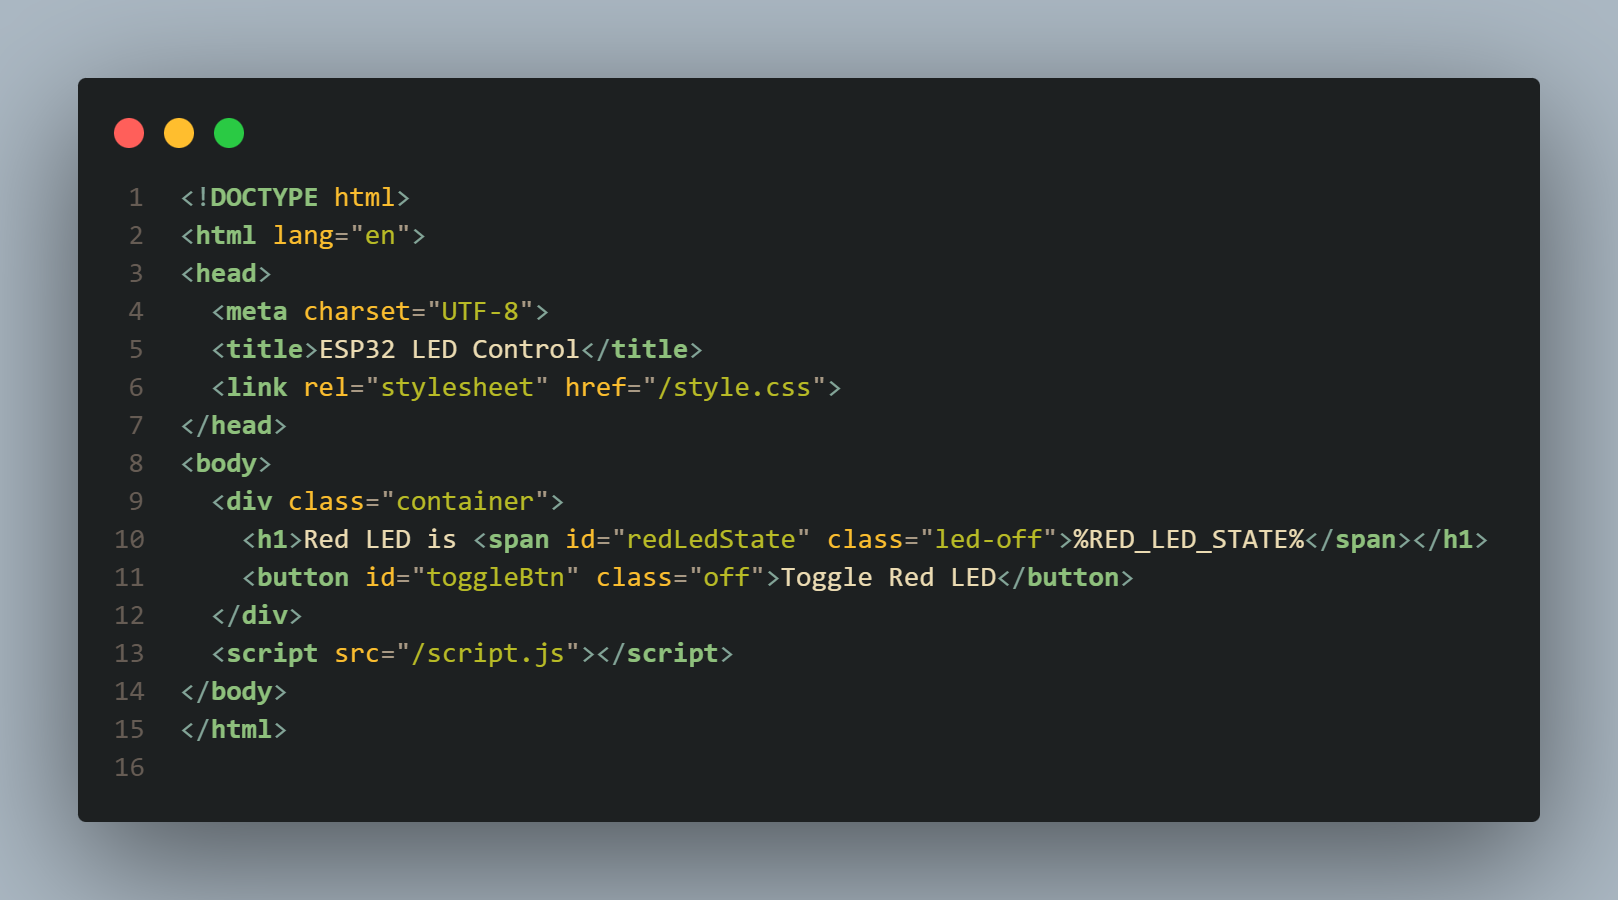
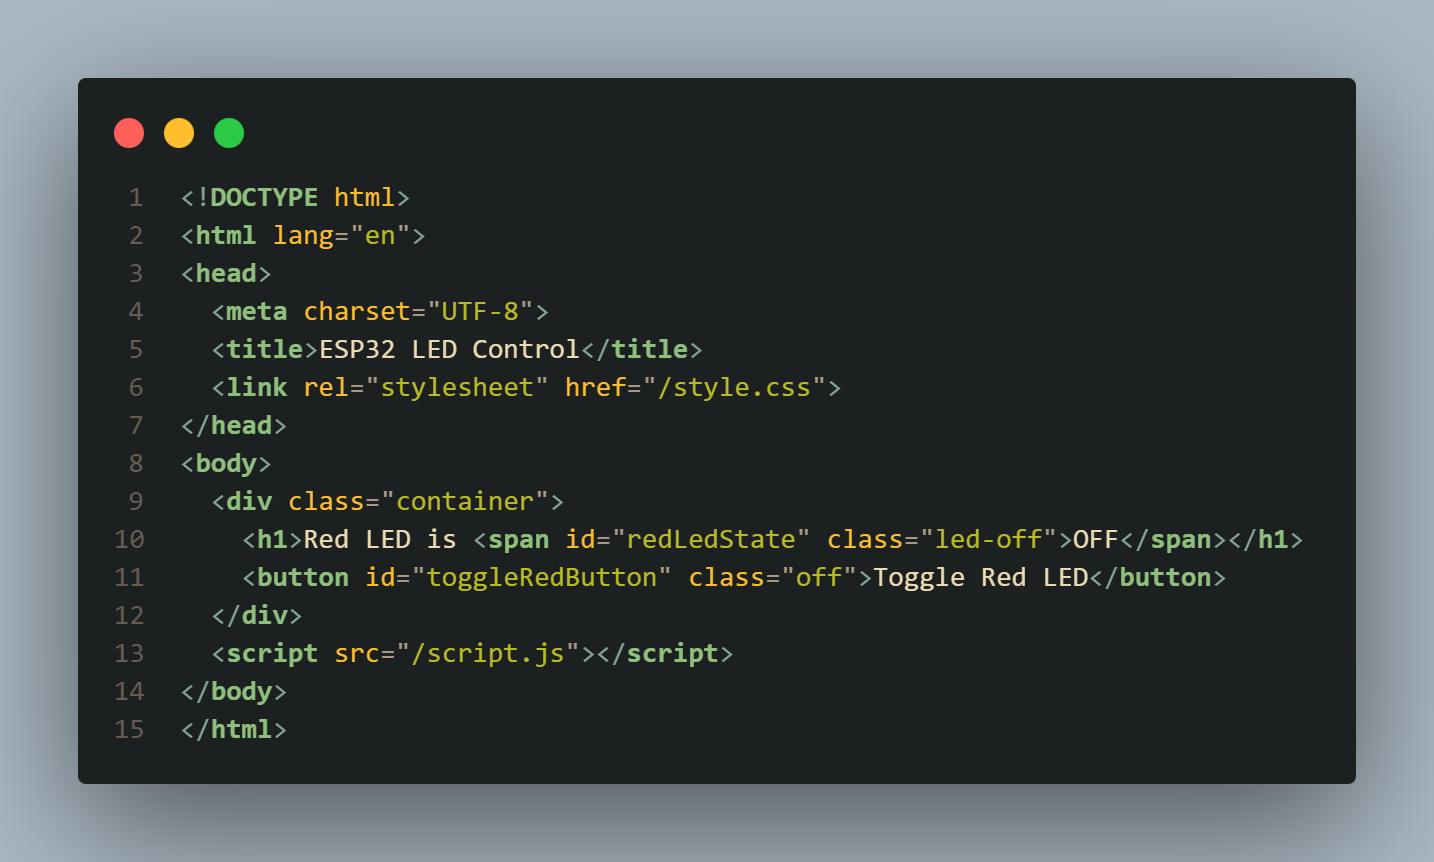
infoTRON 2026

Changed region(s): [[0.0307, 0.0603, 0.9512, 0.935], [0.5523, 0.4223, 0.583, 0.4524]]

diff --git a/Web/aplicatia2/data/script.js b/Web/aplicatia2/data/script.js
@@ -1,47 +1,47 @@
-const updateUI = (button, span, stateText, colorClass) => {
-  const isOn = (stateText || "").trim().toUpperCase() === "ON";
-  span.innerText = isOn ? "ON" : "OFF";
-  span.classList.toggle("led-on", isOn);
-  span.classList.toggle("led-off", !isOn);
-  button.classList.toggle("on", isOn);
-  button.classList.toggle("off", !isOn);
-  button.classList.add(colorClass);
+const toggleRedButton = document.getElementById("toggleRedButton");
+const redLedState = document.getElementById("redLedState");
+
+const toggleGreenButton = document.getElementById("toggleGreenButton");
+const greenLedState = document.getElementById("greenLedState");
+
+const updateElement = (button, span, state) => {
+  span.innerText = state;
+  span.classList.toggle("led-on", state === "ON");
+  span.classList.toggle("led-off", state !== "ON");
+  button.classList.toggle("on", state === "ON");
+  button.classList.toggle("off", state !== "ON");
 };
 
-// Red LED Code
-const toggleRedButton = document.getElementById("toggleRedButton");
-const redLedStateSpan = document.getElementById("redLedState");
-updateUI(toggleRedButton, redLedStateSpan, redLedStateSpan.innerText, "red");
+// Fetch LED states
+const fetchRed = async () => {
+  try {
+    const { redLedState: serverState } = await (await fetch("/api/getRedLEDState")).json();
+    updateElement(toggleRedButton, redLedState, serverState);
+  } catch(e) { console.error(e); }
+};
 
-toggleRedButton.addEventListener("click", () => {
-  fetch("/toggleRedLED")
-    .then(response => response.text())
-    .then(state => updateUI(toggleRedButton, redLedStateSpan, state.split("Red LED is ")[1], "red"))
-    .catch(err => console.error(err));
+const fetchGreen = async () => {
+  try {
+    const { greenLedState: serverState } = await (await fetch("/api/getGreenLEDState")).json();
+    updateElement(toggleGreenButton, greenLedState, serverState);
+  } catch(e) { console.error(e); }
+};
+
+// Initialize
+fetchRed();
+fetchGreen();
+
+// Button clicks toggle LEDs
+toggleRedButton.addEventListener("click", async () => {
+  const { redLedState: serverState } = await (await fetch("/api/toggleRedLED")).json();
+  updateElement(toggleRedButton, redLedState, serverState);
 });
 
-setInterval(() => {
-  fetch("/getRedLEDState")
-    .then(response => response.text())
-    .then(state => updateUI(toggleRedButton, redLedStateSpan, state.split("Red LED is ")[1], "red"))
-    .catch(err => console.error(err));
-}, 200);
-
-// Green LED Code
-const toggleGreenButton = document.getElementById("toggleGreenButton");
-const greenLedStateSpan = document.getElementById("greenLedState");
-updateUI(toggleGreenButton, greenLedStateSpan, greenLedStateSpan.innerText, "green");
-
-toggleGreenButton.addEventListener("click", () => {
-  fetch("/toggleGreenLED")
-    .then(response => response.text())
-    .then(state => updateUI(toggleGreenButton, greenLedStateSpan, state.split("Green LED is ")[1], "green"))
-    .catch(err => console.error(err));
+toggleGreenButton.addEventListener("click", async () => {
+  const { greenLedState: serverState } = await (await fetch("/api/toggleGreenLED")).json();
+  updateElement(toggleGreenButton, greenLedState, serverState);
 });
 
-setInterval(() => {
-  fetch("/getGreenLEDState")
-    .then(response => response.text())
-    .then(state => updateUI(toggleGreenButton, greenLedStateSpan, state.split("Green LED is ")[1], "green"))
-    .catch(err => console.error(err));
-}, 200);
+// Auto-refresh
+setInterval(fetchRed, 200);
+setInterval(fetchGreen, 200);

diff --git a/Web/aplicatia1/data/script.js b/Web/aplicatia1/data/script.js
@@ -1,28 +1,34 @@
-const updateUI = (button, span, stateText) => {
-  const isOn = (stateText || "").trim().toUpperCase() === "ON";
-  span.innerText = isOn ? "ON" : "OFF";
-  span.classList.toggle("led-on", isOn);
-  span.classList.toggle("led-off", !isOn);
-  button.classList.toggle("on", isOn);
-  button.classList.toggle("off", !isOn);
+const toggleRedButton = document.getElementById("toggleRedButton");
+const redLedState = document.getElementById("redLedState");
+
+
+const updateElement = (button, span, state) => {
+  // Update text
+  span.innerText = state;
+  // Toggle LED text color
+  span.classList.toggle("led-on", state === "ON");
+  span.classList.toggle("led-off", state !== "ON");
+  // Toggle button color
+  button.classList.toggle("on", state === "ON");
+  button.classList.toggle("off", state !== "ON");
 };
 
-const toggleBtn = document.getElementById("toggleBtn");
-const redLedStateSpan = document.getElementById("redLedState");
-updateUI(toggleBtn, redLedStateSpan, redLedStateSpan.innerText);
+// Fetch LED state and update inline
+const fetchRed = async () => {
+  try {
+    const { redLedState: serverState } = await (await fetch("/api/getRedLEDState")).json();
+    updateElement(toggleRedButton, redLedState, serverState);
+  } catch(e) { console.error(e); }
+};
 
-// Toggle Red LED when button is clicked
-toggleBtn.addEventListener("click", () => {
-  fetch("/toggleRedLED")
-    .then(response => response.text())
-    .then(state => updateUI(toggleBtn, redLedStateSpan, state.split("Red LED is ")[1]))
-    .catch(err => console.error(err));
+// Initialize
+fetchRed();
+
+// Button clicks toggle directly
+toggleRedButton.addEventListener("click", async () => {
+  const { redLedState: serverState } = await (await fetch("/api/toggleRedLED")).json();
+  updateElement(toggleRedButton, redLedState, serverState);
 });
 
-// Auto-refresh LED state every 0.2 seconds
-setInterval(() => {
-  fetch("/getRedLEDState")
-    .then(response => response.text())
-    .then(state => updateUI(toggleBtn, redLedStateSpan, state.split("Red LED is ")[1]))
-    .catch(err => console.error(err));
-}, 200);
+// Auto-refresh
+setInterval(fetchRed, 200);

diff --git a/Web/aplicatia2/data/style.css b/Web/aplicatia2/data/style.css
@@ -19,39 +19,15 @@ h1 {
   font-size: 2em;
 }
 
-button {
-  padding: 15px 30px;
-  font-size: 1.2em;
-  background-color: #6c757d; /* default (OFF) */
-  color: #fff;
-  border: none;
-  border-radius: 10px;
-  cursor: pointer;
-  transition: background-color 0.3s;
+/* LEDS */
+
+.led-off, .led-on {
+  font-weight: bold;
+  transition: color 0.3s;
 }
 
-button.off {
-  background-color: #6c757d;
-}
-
-button.off:hover {
-  background-color: #5a6268;
-}
-
-button.red.on {
-  background-color: #c62828;
-}
-
-button.red.on:hover {
-  background-color: #b71c1c;
-}
-
-button.green.on {
-  background-color: #2e7d32;
-}
-
-button.green.on:hover {
-  background-color: #27642b;
+.led-off {
+  color: #555;
 }
 
 #redLedState.led-on {
@@ -62,6 +38,43 @@ button.green.on:hover {
   color: #2e7d32;
 }
 
-.led-off {
-  color: #555;
+
+/* BUTTONS */
+
+button {
+  padding: 15px 30px;
+  font-size: 1.2em;
+  background-color: #6c757d; /* default OFF */
+  color: #fff;
+  border: none;
+  border-radius: 10px;
+  cursor: pointer;
+  transition: background-color 0.3s;
 }
+
+/* BUTTONS OFF state */
+button.off {
+  background-color: #6c757d;
+}
+
+button.off:hover {
+  background-color: #5a6268;
+}
+
+/* BUTTONS ON state */
+#toggleRedButton.on {
+  background-color: #c62828;
+}
+
+#toggleRedButton.on:hover {
+  background-color: #b71c1c;
+}
+
+#toggleGreenButton.on {
+  background-color: #2e7d32;
+}
+
+#toggleGreenButton.on:hover {
+  background-color: #27642b;
+}
+

diff --git a/Web/aplicatia2/data/index.html b/Web/aplicatia2/data/index.html
@@ -1,23 +1,19 @@
 <!DOCTYPE html>
 <html lang="en">
-
 <head>
   <meta charset="UTF-8">
   <title>ESP32 LED Control</title>
   <link rel="stylesheet" href="/style.css">
 </head>
-
 <body>
   <div class="container">
-    <h1>Red LED is <span id="redLedState" class="led-off">%RED_LED_STATE%</span></h1>
-    <button id="toggleRedButton" class="off red">Toggle Red LED</button>
+    <h1>Red LED is <span id="redLedState" class="led-off">OFF</span></h1>
+    <button id="toggleRedButton" class="off">Toggle Red LED</button>
   </div>
-  
   <div class="container">
-    <h1>Green LED is <span id="greenLedState" class="led-off">%GREEN_LED_STATE%</span></h1>
-    <button id="toggleGreenButton" class="off green">Toggle Green LED</button>
+    <h1>Green LED is <span id="greenLedState" class="led-off">OFF</span></h1>
+    <button id="toggleGreenButton" class="off">Toggle Green LED</button>
   </div>
-  
   <script src="/script.js"></script>
 </body>
 </html>

diff --git a/Web/aplicatia1/data/style.css b/Web/aplicatia1/data/style.css
@@ -19,10 +19,28 @@ h1 {
   font-size: 2em;
 }
 
+/* LEDS */
+
+.led-off, .led-on {
+  font-weight: bold;
+  transition: color 0.3s;
+}
+
+.led-off {
+  color: #555;
+}
+
+#redLedState.led-on {
+  color: #c62828;
+}
+
+
+/* BUTTONS */
+
 button {
   padding: 15px 30px;
   font-size: 1.2em;
-  background-color: #6c757d; /* default (OFF) */
+  background-color: #6c757d; /* default OFF */
   color: #fff;
   border: none;
   border-radius: 10px;
@@ -30,6 +48,7 @@ button {
   transition: background-color 0.3s;
 }
 
+/* BUTTONS OFF state */
 button.off {
   background-color: #6c757d;
 }
@@ -38,18 +57,11 @@ button.off:hover {
   background-color: #5a6268;
 }
 
-button.on {
+/* BUTTONS ON state */
+#toggleRedButton.on {
   background-color: #c62828;
 }
 
-button.on:hover {
+#toggleRedButton.on:hover {
   background-color: #b71c1c;
-}
-
-#redLedState.led-on {
-  color: #c62828;
-}
-
-#redLedState.led-off {
-  color: #555;
 }

diff --git a/Web/aplicatia1/data/index.html b/Web/aplicatia1/data/index.html
@@ -7,8 +7,8 @@
 </head>
 <body>
   <div class="container">
-    <h1>Red LED is <span id="redLedState" class="led-off">%RED_LED_STATE%</span></h1>
-    <button id="toggleBtn" class="off">Toggle Red LED</button>
+    <h1>Red LED is <span id="redLedState" class="led-off">OFF</span></h1>
+    <button id="toggleRedButton" class="off">Toggle Red LED</button>
   </div>
   <script src="/script.js"></script>
 </body>
